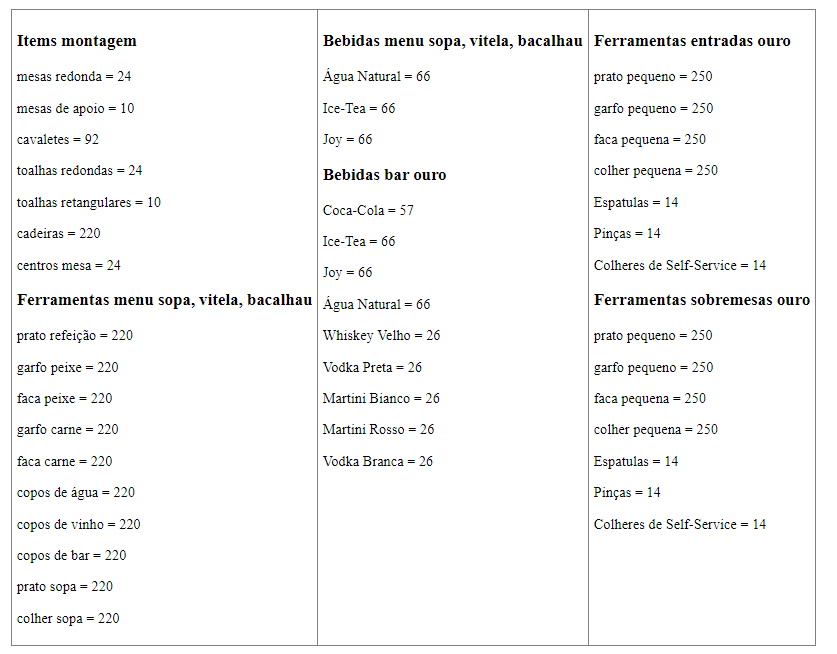
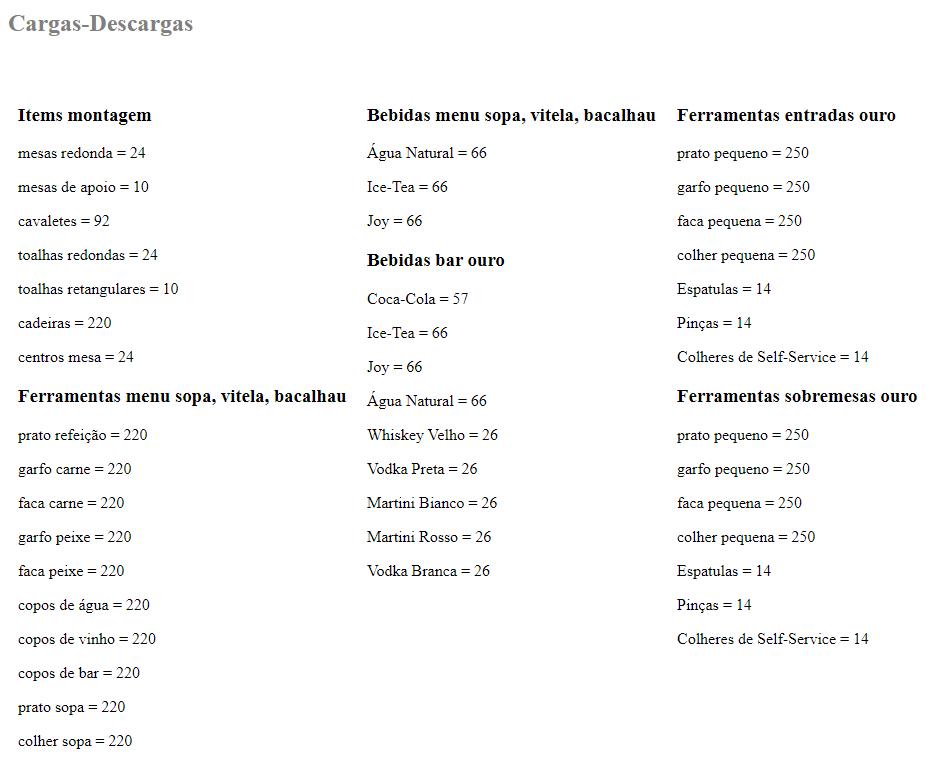
Relatórios

Changed region(s): [[0.0, 0.0, 0.994, 0.9786]]

diff --git a/HTMLWriter.py b/HTMLWriter.py
@@ -27,10 +27,10 @@ class HTMLWriter():
         self.file.write('<head>\n')
         self.file.write('<title>{t}</title>\n'.format(t = name))
         self.file.write('<style>\n')
-
-        self.file.write('table{padding:0px; border: 1px solid grey;padding-top: 15px; border-collapse: collapse;}\n')
-        self.file.write('th, td {padding: 5px;vertical-align:top;border:1px solid grey}\n')
-        self.file.write('h2 {color:grey;}\n')
+        self.file.write('table {padding:0px; border: 0 px solid grey;padding-top: 5px; border-collapse: collapse;}\n')
+        self.file.write('tr, td, th {padding: 10px;vertical-align:top;border:0px solid grey}\n')
+        self.file.write('h2 {color:grey; padding-top: 20px}\n')
+        self.file.write('.autotable , .autotable tr, .autotable td, .autotable th{border: 1px solid lightgrey;}')
         self.file.write('</style>\n')
         self.file.write('</head>\n')
         self.file.write('<body>\n')
@@ -73,7 +73,7 @@ class HTMLWriter():
         self.file.write('<br>')
 
     def addTable(self, title, data):
-        self.file.write('<table>\n')
+        self.file.write('<table class="autotable">\n')
         self.file.write('<tr>\n')
         for t in title:
             self.file.write('<th><b>{h}</b></th>\n'.format(h = t))

diff --git a/CateringService.py b/CateringService.py
@@ -219,6 +219,7 @@ class CateringService():
                     page_items.append(sett.getItems(level = self.apt_level)['ferramentas'])
         div_counter = int(len(page_items)) / 3
         loop_counter = 0
+        page.openDiv()
         page.openTable()
         page.openRow()
         page.openCell()
@@ -262,6 +263,10 @@ class CateringService():
                     for items_k, items_v in items.get().items():
                         page.addParagraph('{k} = {v}'.format(k = items_k, v = items_v))
                     page.closeCell()
+        page.closeRow()
+        page.closeTable()
+        page.close()
+        
     
     def getTotalPage(self):
         page = HTMLWriter(self.name, 'Total')

diff --git a/CateringSet.py b/CateringSet.py
@@ -27,7 +27,7 @@ class CateringSet():
                 drinks_n.add(pro.name, value = int(botle_n))
                 pass
             if pro.type in ['carne', 'sopa', 'peixe']:
-                products_n.add(pro.name, value = self.number)
+                products_n.add(pro.name, value = int(self.number * 1.25))
             types.append(pro.type)
         types = set(types)
 

diff --git a/README.md b/README.md
@@ -215,7 +215,7 @@ A página de Serviços é dividida em 9 secções:
 ![Resultado Serviço](./apresentação/serviço_resultados.png)
 
 #### Exemplo de Relatórios
-
+Páginas serão geradas no Ambiente de Trabalho dentro da diretoria "Inventários Catering\\{Nome do serviço}\\{Nome da página}"
 ##### Montagem
 ![Relatório Montagem](./apresentação/relatoriomontagem.png)
 ##### Valores
